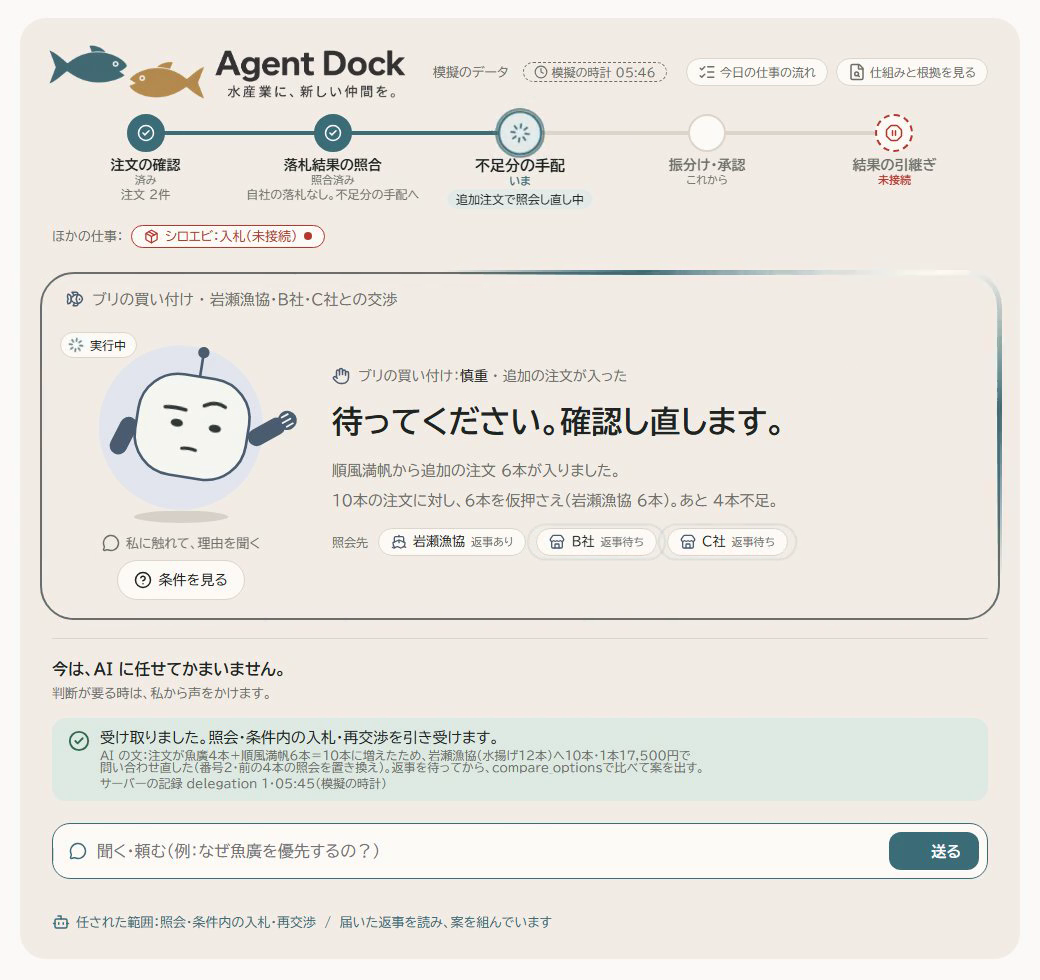
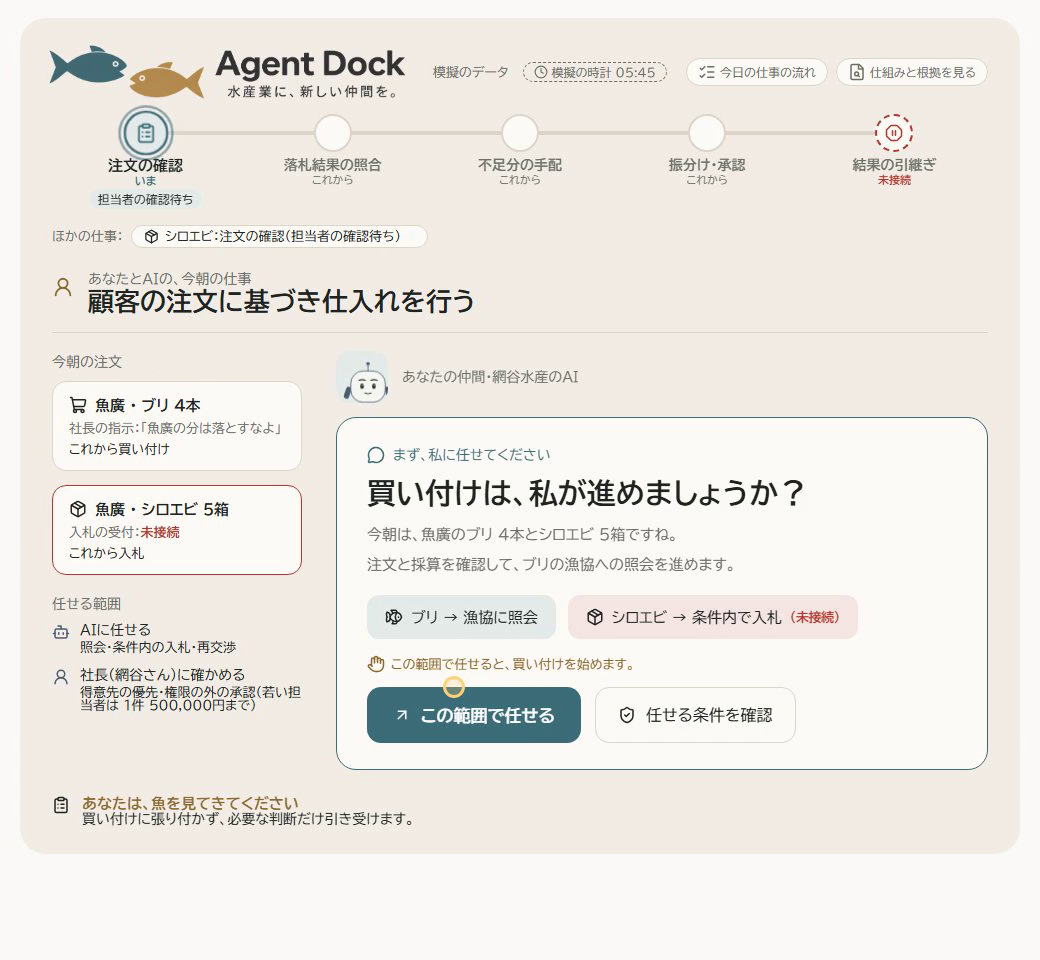
README: the buyer screen where Claude offers to take the purchase, and the coop screen

diff --git a/README.md b/README.md
@@ -10,9 +10,13 @@ Agent Dock は、水産の現場にたずさわる大勢の方々のために作
 
 会期中に作ったのは、仲買の仕入れと漁協の集計の部分です。提出動画では、富山の浜の朝の仕入れという、一つの業務の流れを見せています。
 
-![Agent Dock の仲買の画面。工程の帯、Claude が照会し直している状態、照会先の岩瀬漁協・B社・C社、頼む欄が並ぶ](docs/img/00-agentdock-mate.png)
+![Agent Dock の仲買の画面。工程の帯、今朝の注文、任せる範囲、Claude の「買い付けは、私が進めましょうか？」と「この範囲で任せる」のボタンが並ぶ](docs/img/00-agentdock-mate.png)
 
-<sub>Agent Dock の仲買の画面（5回目の実行の記録）。追加の注文を受けた Claude が、岩瀬漁協・B社・C社に照会し直しています。</sub>
+<sub>網谷水産（仲買）の画面（5回目の実行の記録）。Claude が「買い付けは、私が進めましょうか？」と申し出て、担当者が任せる範囲を決めます。</sub>
+
+![岩瀬漁協の画面。せりの結果の照合、仲買への請求の集計、荷主への支払いの集計、照会への回答、取引と追加集計の5つの仕事と、記録の一覧が並ぶ](docs/img/05-agentdock-coop.png)
+
+<sub>岩瀬漁協の画面（同じ実行の記録）。せりの結果の照合と請求・支払いの集計はコードが処理し、網谷水産からの照会には漁協の Claude が答えます。</sub>
 
 ## 開発の背景
 
